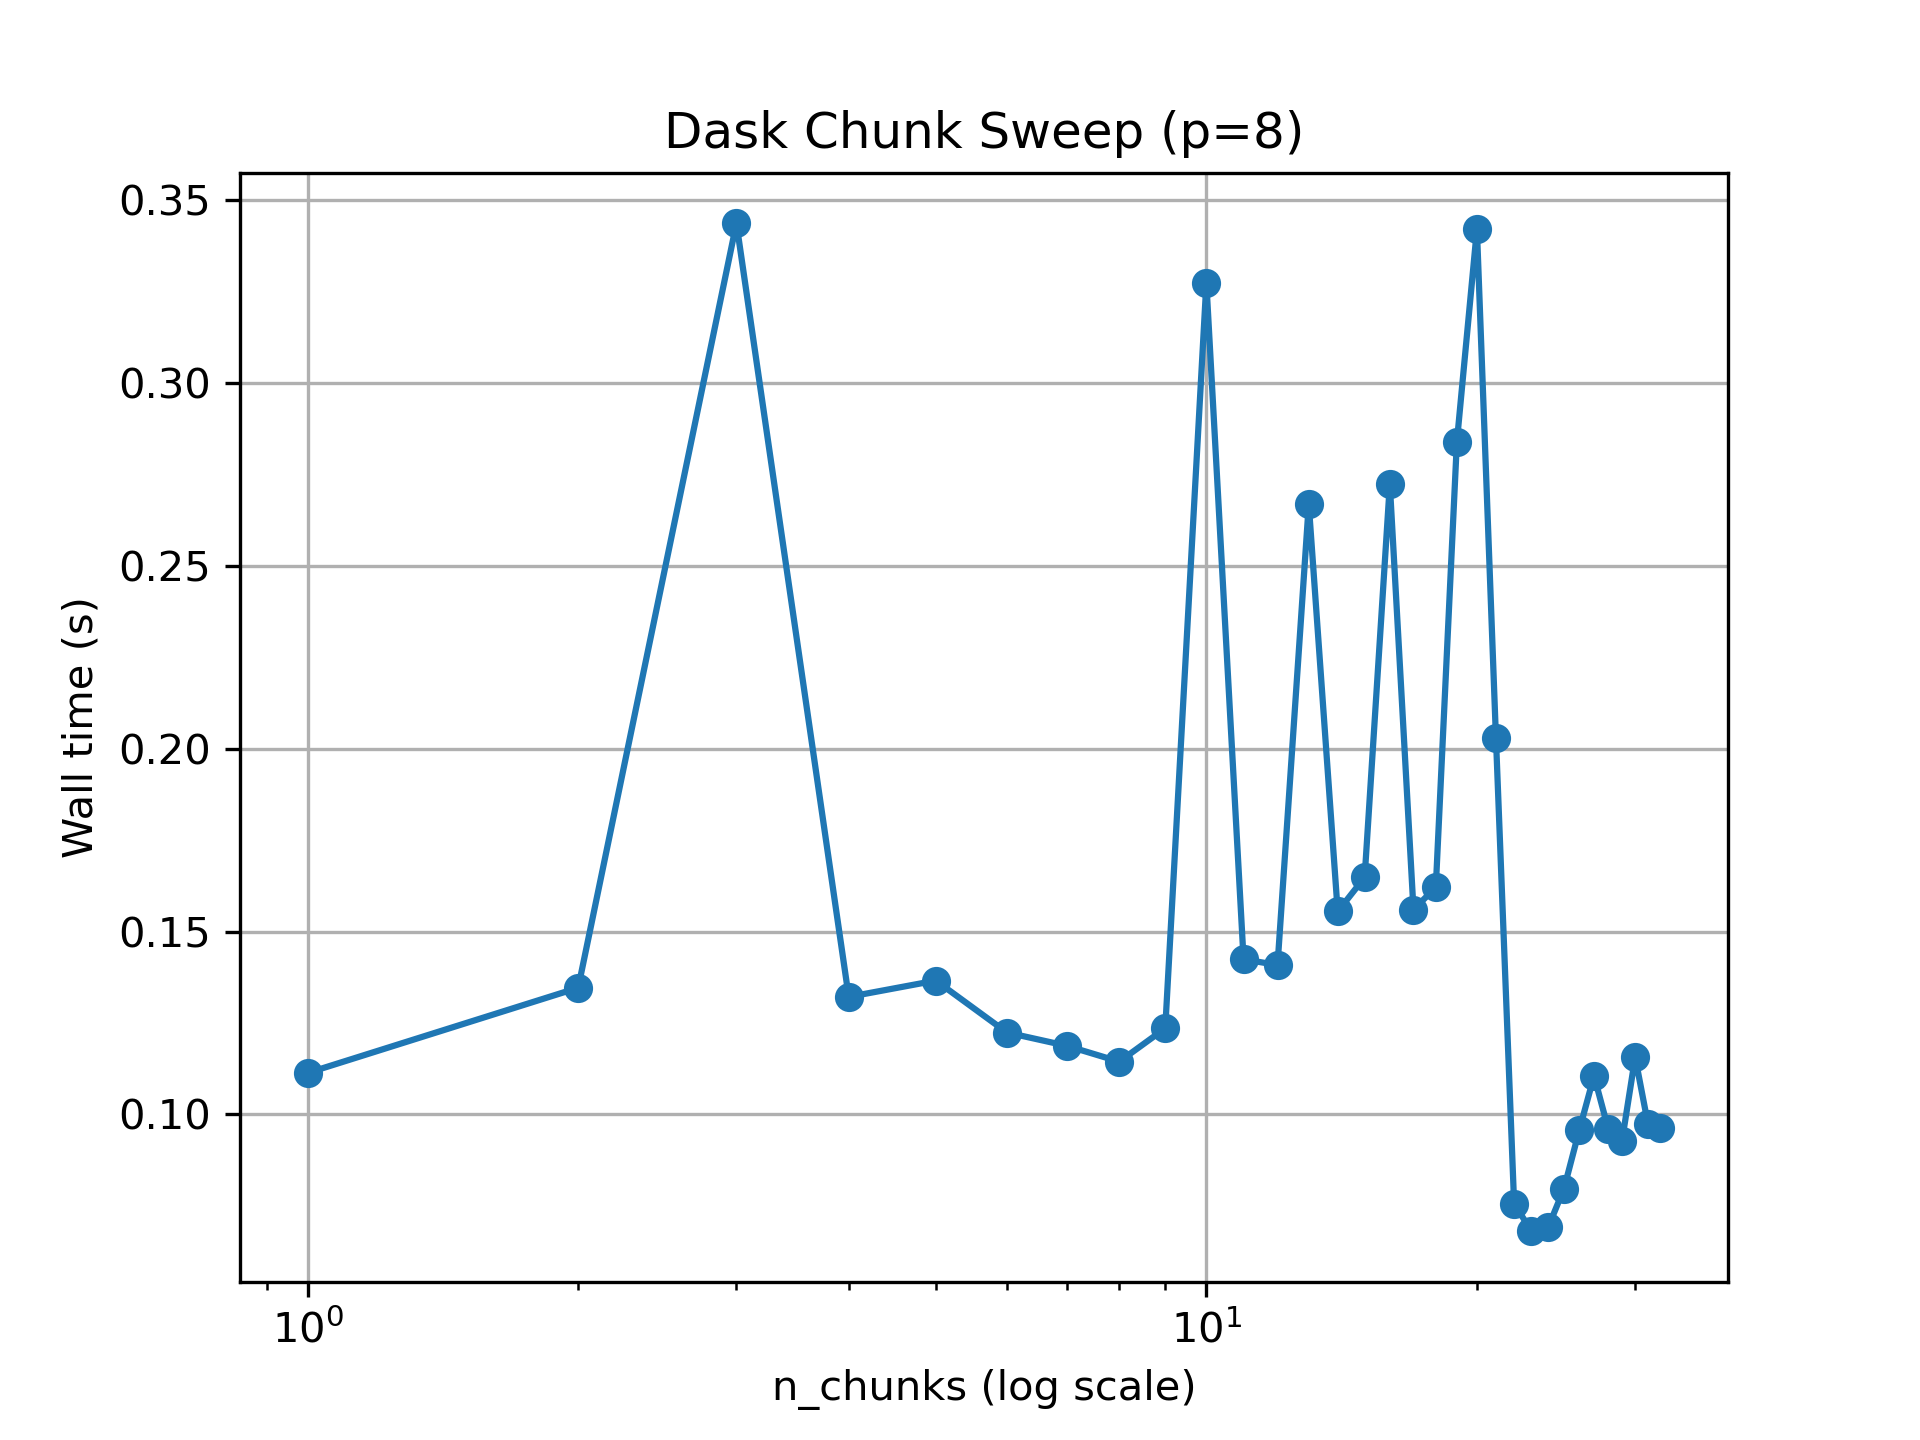
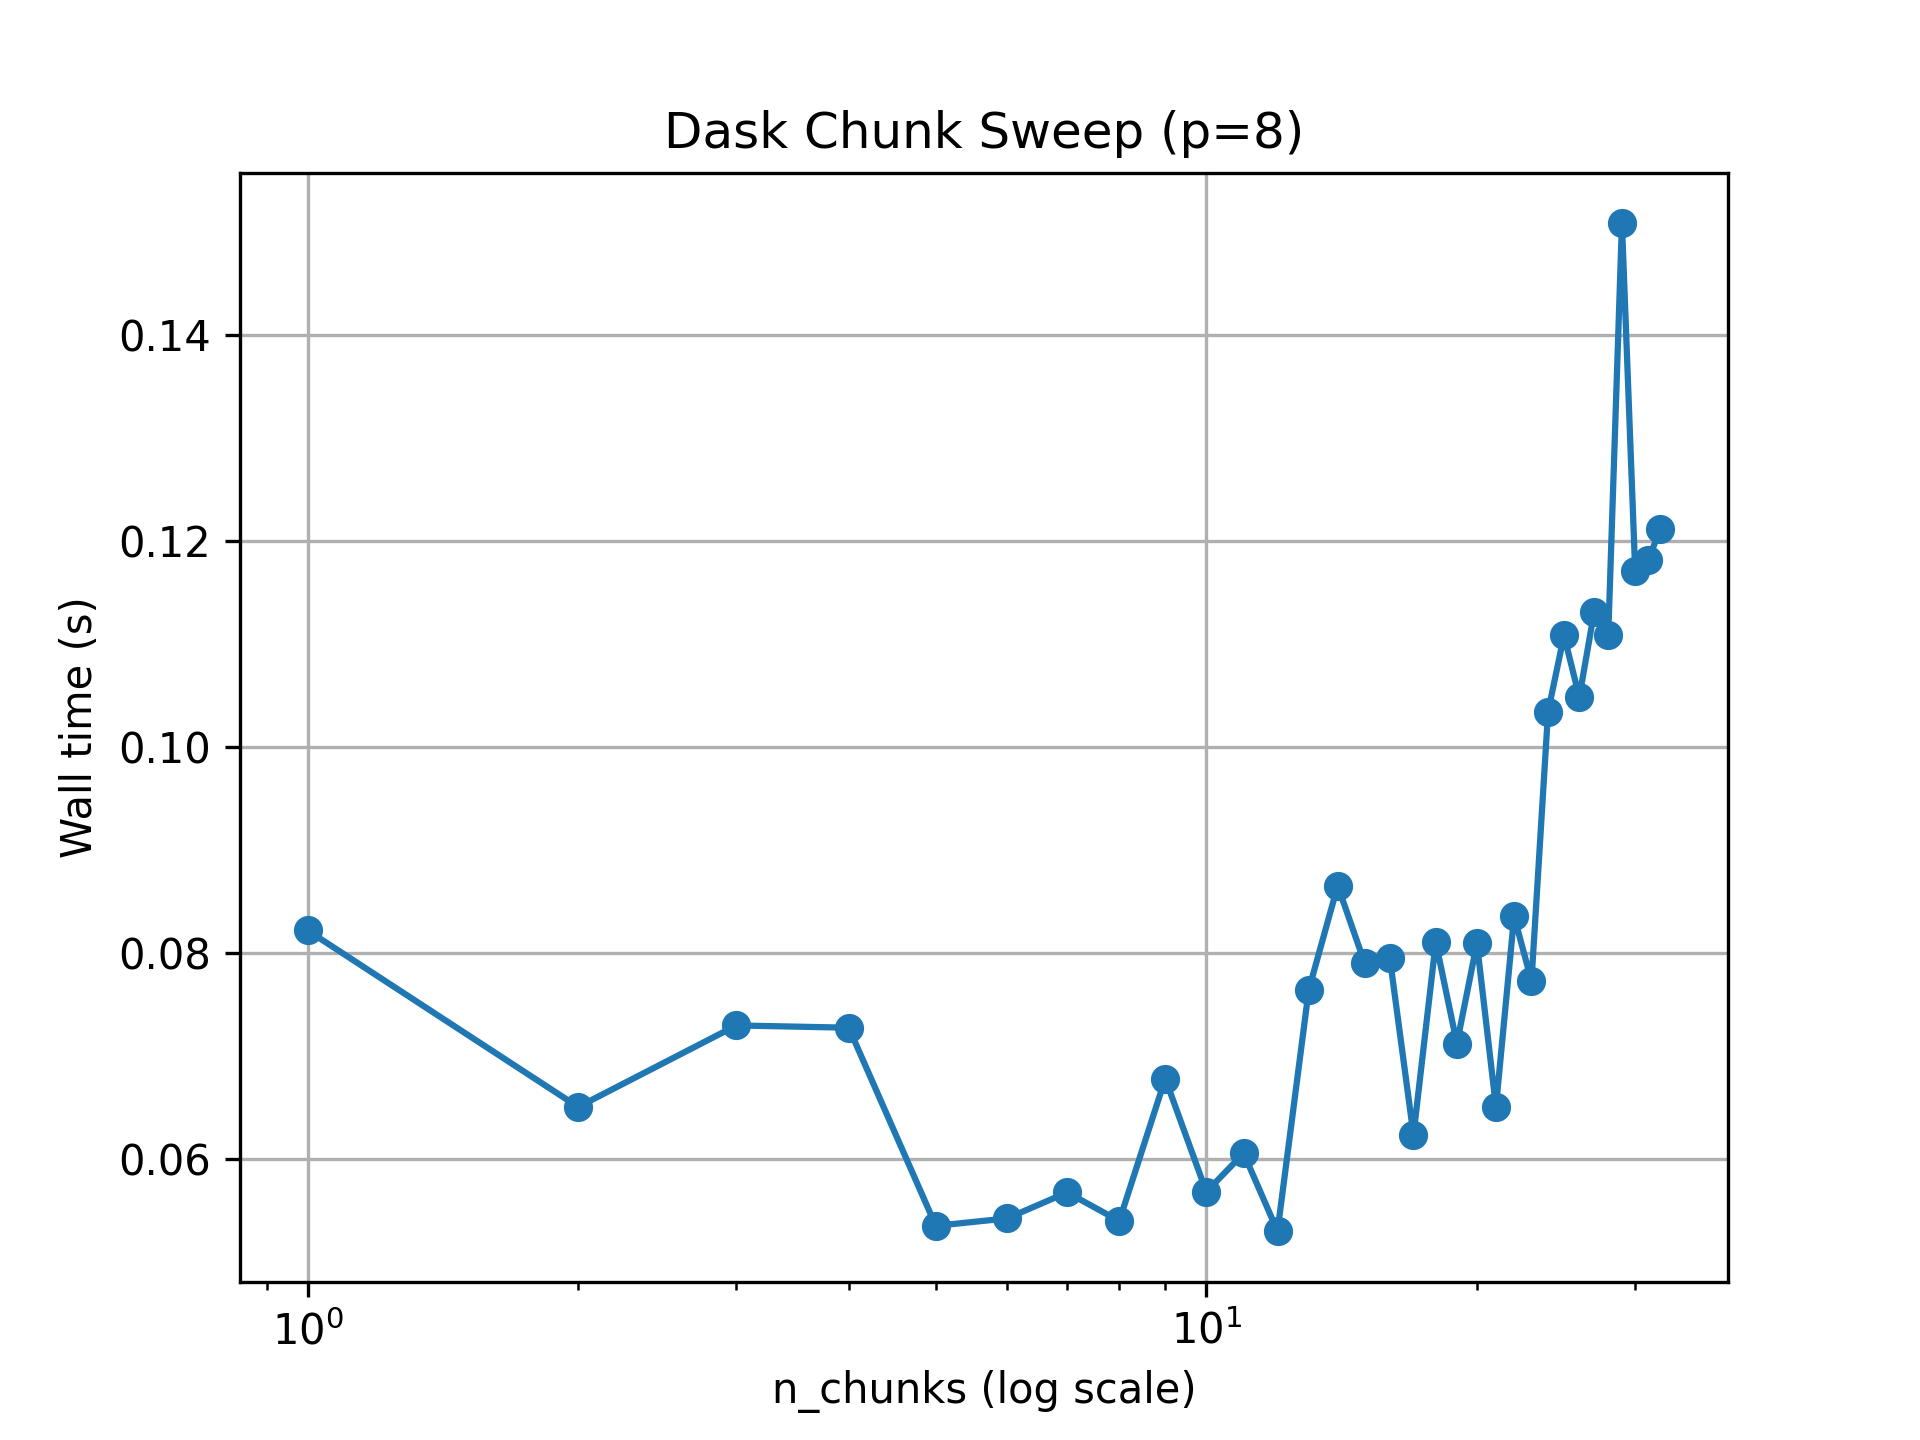
MP2 optimal LIF

diff --git a/mandelbrotParallel.py b/mandelbrotParallel.py
@@ -40,18 +40,21 @@ def mandelbrot_serial(N, x_min, x_max, y_min, y_max, max_iter=100):
 def _worker(args):
     return mandelbrot_chunk(*args)
 
-def mandelbrot_parallel(N, x_min, x_max, y_min, y_max, max_iter=100, n_workers=4):
-    chunk_size = max(1, N // n_workers)
+def mandelbrot_parallel(N, x_min, x_max, y_min, y_max, max_iter=100, n_workers=4, n_chunks=None, pool=None):
+    if n_chunks is None:
+        n_chunks = n_workers
+    chunk_size = max(1, N // n_chunks)
     chunks, row = [], 0
     while row < N:
         row_end = min(row + chunk_size, N)
         chunks.append((row, row_end, N, x_min, x_max, y_min, y_max, max_iter))
         row = row_end
-
-    with Pool(processes=n_workers) as pool:
-        pool.map(_worker, chunks) # un-timed warm-up: Numba JIT in workers
-        parts = pool.map(_worker, chunks)
-
+    if pool is not None: 
+        return np.vstack(pool.map(_worker, chunks))
+    tiny = [(0, 8, 8, x_min, x_max, y_min, y_max, max_iter)]
+    with Pool(processes=n_workers) as p:
+        p.map(_worker, tiny)
+        parts = p.map(_worker, chunks)
     return np.vstack(parts)
 
 def mandelbrot_dask(N, x_min, x_max, y_min, y_max, max_iter=100, n_chunks=32):
@@ -85,6 +88,13 @@ if __name__ == "__main__":
 
     n_chunks_list = list(range(1, 33))
     times = []
+
+    with Pool(processes=p) as pool:
+        result = mandelbrot_parallel(
+            N, X_MIN, X_MAX, Y_MIN, Y_MAX,
+            max_iter=max_iter,
+            pool=pool
+        )
 
     for n_chunks in n_chunks_list:
         t = []
